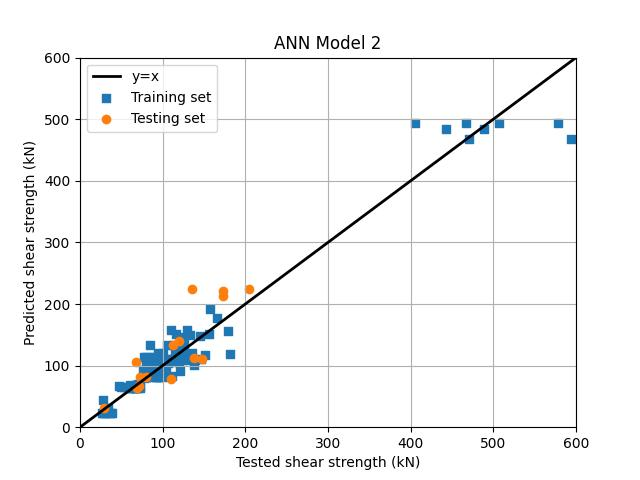
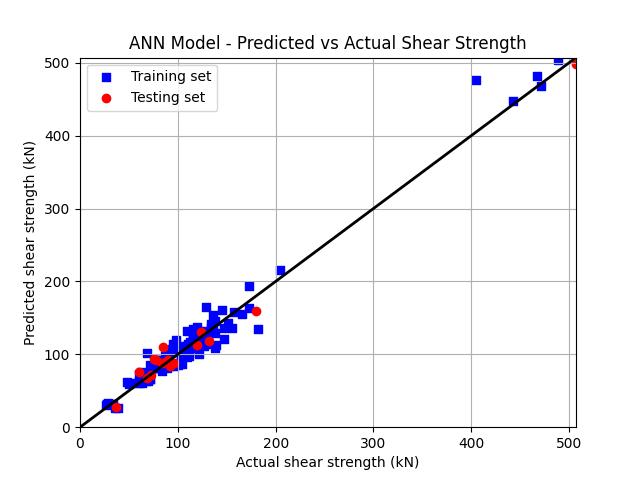
Added Scatter Plot and Cross Validation

diff --git a/Shear_STrength_Corr_RCC/RFR_2.py b/Shear_STrength_Corr_RCC/RFR_2.py
@@ -1,22 +1,15 @@
 import numpy as np
 import matplotlib.pyplot as plt
 import pandas as pd
-from sklearn.tree import DecisionTreeRegressor
-from sklearn.metrics import r2_score
 from sklearn.model_selection import KFold
+from sklearn.ensemble import RandomForestRegressor
 from sklearn.preprocessing import StandardScaler
-
-# Function for saving max r2 score plot
-def isMax(x, lst):
-    for i in (lst):
-        if(x < i): 
-            return False
-    return True
+from sklearn.metrics import r2_score
 
 # Load the dataset
 dataset = pd.read_csv('corr_beam.csv')
 
-# reading the original input variables from the database
+# Reading the original input variables from the database
 fc = dataset.loc[:, 'fc']
 b = dataset.loc[:, 'b']
 h = dataset.loc[:, 'h']
@@ -30,30 +23,30 @@ eta_l = dataset.loc[:, 'eta_l']
 eta_w = dataset.loc[:, 'eta_w']
 h0 = dataset.loc[:, 'h0']
 
-# constructing 6 new normalized dimensionless input variables
-X = np.zeros(shape=(158,6))
+# Constructing 6 new normalized dimensionless input variables
+X = np.zeros(shape=(158, 6))
 X[:, 0] = lambda_s
-X[:, 1] = h0/b
+X[:, 1] = h0 / b
 X[:, 2] = rho_l * fy / fc
 X[:, 3] = rho_v * fyv / fc
 X[:, 4] = eta_l
 X[:, 5] = eta_w
 
-# defining the output, i.e., the shear strength of the corroded beam
-y = dataset.loc [:, 'y']
+# Defining the output (shear strength of the corroded beam)
+y = dataset.loc[:, 'y']
 
-# Feature scaling (Normalization)
+# Scaling the features
 scaler = StandardScaler()
 X = scaler.fit_transform(X)
 
-# Define the KFold cross-validator with 10 splits
+# KFold Cross-Validation (10 folds)
 kf = KFold(n_splits=10, shuffle=True, random_state=1)
 
-# Lists to store R2 scores for each fold
+# Lists to store R2 scores
 r2_scores_train = []
 r2_scores_test = []
 
-# Cross-validation loop
+# Loop through each fold
 fold = 1
 for train_index, test_index in kf.split(X):
     print(f"\nTraining fold {fold}...")
@@ -62,10 +55,8 @@ for train_index, test_index in kf.split(X):
     X_train, X_test = X[train_index], X[test_index]
     y_train, y_test = y[train_index], y[test_index]
     
-    # Initialize the Decision Tree Regressor
-    regressor = DecisionTreeRegressor(random_state=0)
-    
-    # Train the model
+    # Initialize the RandomForestRegressor model for each fold
+    regressor = RandomForestRegressor(n_estimators=18, random_state=0)
     regressor.fit(X_train, y_train)
     
     # Predictions on training and testing sets
@@ -80,26 +71,6 @@ for train_index, test_index in kf.split(X):
     r2_scores_train.append(r2_train)
     r2_scores_test.append(r2_test)
     
-    if(isMax(r2_test, r2_scores_test)):
-        xx = np.linspace(0, 600, 100)
-        yy = xx
-
-        plt.figure()
-        plt.plot(xx, yy, c='k', linewidth=2)
-        plt.scatter(y_train, y_pred_train, marker='s', color='blue', label="Training set")
-        plt.scatter(y_test, y_pred_test, marker='o', color='red', label="Testing set")
-
-        plt.grid()
-        plt.legend(loc='upper left')
-        plt.tick_params(axis='both', which='major')
-        plt.axis('tight')
-        plt.xlabel('Tested shear strength (kN)')
-        plt.ylabel('Predicted shear strength (kN)')
-        plt.xlim([0, 600])
-        plt.ylim([0, 600])
-        plt.title("DTR Model - Predicted vs Actual Shear Strength")
-        plt.savefig('DTR_Model_2.jpeg')
-    
     print(f"Fold {fold} R2 score (train): {r2_train * 100:.2f}")
     print(f"Fold {fold} R2 score (test): {r2_test * 100:.2f}")
     
@@ -112,14 +83,15 @@ avg_r2_test = np.mean(r2_scores_test) * 100
 print("\nAverage R2 Score across 10 folds (train): ", avg_r2_train)
 print("Average R2 Score across 10 folds (test): ", avg_r2_test)
 
-# Optionally, you can plot the results from the last fold
+# Optional: Plot the last fold's predictions for visualization
+
 xx = np.linspace(0, 600, 100)
 yy = xx
 
 plt.figure()
 plt.plot(xx, yy, c='k', linewidth=2)
-plt.scatter(y_train, y_pred_train, marker='s', color='blue', label="Training set")
-plt.scatter(y_test, y_pred_test, marker='o', color='red', label="Testing set")
+plt.scatter(y_train, y_pred_train, marker='s', label='Training set')
+plt.scatter(y_test, y_pred_test, marker='o', label='Testing set')
 
 plt.grid()
 plt.legend(loc='upper left')
@@ -129,6 +101,6 @@ plt.xlabel('Tested shear strength (kN)')
 plt.ylabel('Predicted shear strength (kN)')
 plt.xlim([0, 600])
 plt.ylim([0, 600])
-plt.title("DTR Model - Predicted vs Actual Shear Strength (Last Fold)")
-plt.savefig('DTR_Model_CrossValidation.jpeg')
+plt.title("RFR Model (Last Fold)")
+plt.savefig('RFR_Model_CrossValidation.jpeg')
 plt.show()

diff --git a/Shear_STrength_Corr_RCC/ANN_2.py b/Shear_STrength_Corr_RCC/ANN_2.py
@@ -7,12 +7,20 @@ import keras
 from keras import layers
 import matplotlib.pyplot as plt
 
+# Function for saving max r2 score plot
+def isMax(x, lst):
+    for i in (lst):
+        if(x < i): 
+            return False
+    return True
+
 # Load the dataset
 dataset = pd.read_csv('corr_beam.csv')
 
 # Split dataset into features (X) and target (y)
 X = dataset.iloc[:, :-1].values  # All columns except the last one (features)
 y = dataset.iloc[:, -1].values   # The last column (target - shear strength)
+feature_names = dataset.columns[:-1]  # Save feature names for plotting
 
 # Feature scaling (Normalization)
 scaler = StandardScaler()
@@ -62,6 +70,27 @@ for train_index, test_index in kf.split(X):
     r2_scores_train.append(r2_train)
     r2_scores_test.append(r2_test)
     
+    if(isMax(r2_test, r2_scores_test)):
+        # Plot results from the last fold (optional)
+        xx = np.linspace(0, max(y_test), 100)
+        yy = xx
+
+        plt.figure()
+        plt.plot(xx, yy, c='k', linewidth=2)
+        plt.scatter(y_train, y_pred_train, marker='s', color='blue', label="Training set")
+        plt.scatter(y_test, y_pred_test, marker='o', color='red', label="Testing set")
+
+        plt.grid()
+        plt.legend()
+        plt.tick_params(axis='both', which='major')
+        plt.axis('tight')
+        plt.xlabel('Actual shear strength (kN)')
+        plt.ylabel('Predicted shear strength (kN)')
+        plt.xlim([0, max(y_test)])
+        plt.ylim([0, max(y_test)])
+        plt.title("ANN Model - Predicted vs Actual Shear Strength")
+        plt.savefig("ANN_Model_2.jpeg")
+    
     print(f"Fold {fold} R2 score (train): {r2_train * 100:.2f}")
     print(f"Fold {fold} R2 score (test): {r2_test * 100:.2f}")
     
@@ -74,22 +103,3 @@ avg_r2_test = np.mean(r2_scores_test) * 100
 print("\nAverage R2 Score across 10 folds (train): ", avg_r2_train)
 print("Average R2 Score across 10 folds (test): ", avg_r2_test)
 
-# Optionally, plot results from the last fold
-xx = np.linspace(0, max(y_test), 100)
-yy = xx
-
-plt.figure()
-plt.plot(xx, yy, c='k', linewidth=2)
-plt.scatter(y_train, y_pred_train, marker='s', color='blue', label="Training set")
-plt.scatter(y_test, y_pred_test, marker='o', color='red', label="Testing set")
-
-plt.grid()
-plt.legend()
-plt.tick_params(axis='both', which='major')
-plt.axis('tight')
-plt.xlabel('Actual shear strength (kN)')
-plt.ylabel('Predicted shear strength (kN)')
-plt.xlim([0, max(y_test)])
-plt.ylim([0, max(y_test)])
-plt.title("ANN Model - Predicted vs Actual Shear Strength (Fold 10)")
-plt.show()

diff --git a/Shear_STrength_Corr_RCC/Scatter_Plot_Feature.py b/Shear_STrength_Corr_RCC/Scatter_Plot_Feature.py
@@ -1,0 +1,67 @@
+import numpy as np
+import matplotlib.pyplot as plt
+import pandas as pd
+
+# Load the dataset
+dataset = pd.read_csv('corr_beam.csv')
+
+# Reading the original input variables
+fc = dataset.loc[:, 'fc']
+b = dataset.loc[:, 'b']
+h = dataset.loc[:, 'h']
+rho_l = dataset.loc[:, 'rho_l']
+rho_v = dataset.loc[:, 'rho_v']
+fy = dataset.loc[:, 'fy']
+fyv = dataset.loc[:, 'fyv']
+s = dataset.loc[:, 's']
+lambda_s = dataset.loc[:, 'lambda_s']
+eta_l = dataset.loc[:, 'eta_l']
+eta_w = dataset.loc[:, 'eta_w']
+h0 = dataset.loc[:, 'h0']
+
+# Constructing normalized dimensionless input variables
+X = np.zeros(shape=(158, 6))
+X[:, 0] = lambda_s
+X[:, 1] = h0 / b
+X[:, 2] = rho_l * fy / fc
+X[:, 3] = rho_v * fyv / fc
+X[:, 4] = eta_l
+X[:, 5] = eta_w
+
+# Defining output (shear strength of the corroded beam)
+y = dataset.loc[:, 'y']
+
+# Feature names for labeling
+feature_names = [
+    "λ_s (lambda_s)", 
+    "h0 / b", 
+    "ρ_l * fy / fc", 
+    "ρ_v * fyv / fc", 
+    "η_l (eta_l)", 
+    "η_w (eta_w)"
+]
+
+# Create a figure to hold subplots
+plt.figure(figsize=(12, 8))
+
+# Loop through each feature in X to create box and scatter plots
+for i in range(6):
+    plt.subplot(2, 3, i + 1)  # Create a 2x3 grid of subplots
+    
+    # Boxplot for the feature
+    plt.boxplot(X[:, i], vert=False, patch_artist=False, widths=0.4)
+    
+    # Scatter plot overlaying the boxplot
+    plt.scatter(X[:, i], np.ones_like(X[:, i]), alpha=0.7, color='blue', edgecolors='black')
+    
+    # Labeling the x-axis with feature names and the y-axis as "y"
+    plt.xlabel(feature_names[i])
+    plt.ylabel("Shear Strength (y)")
+    plt.title(f"Scatter Plot and Box Plot for {feature_names[i]}")
+
+# Adjust layout to prevent overlapping
+plt.tight_layout()
+
+# Show the combined plot
+plt.savefig("Feature_Scatter_Plot")
+plt.show()
